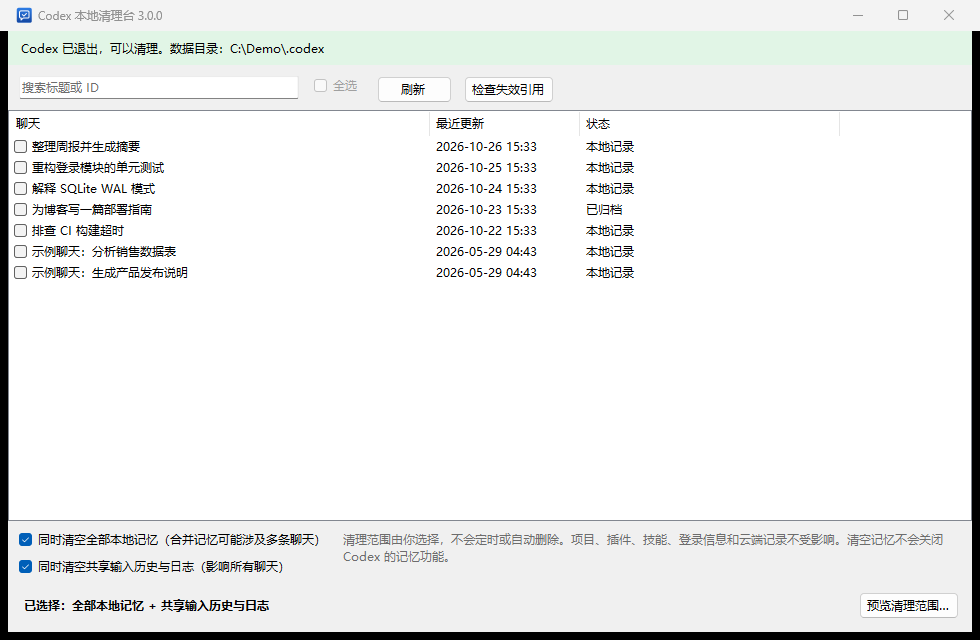
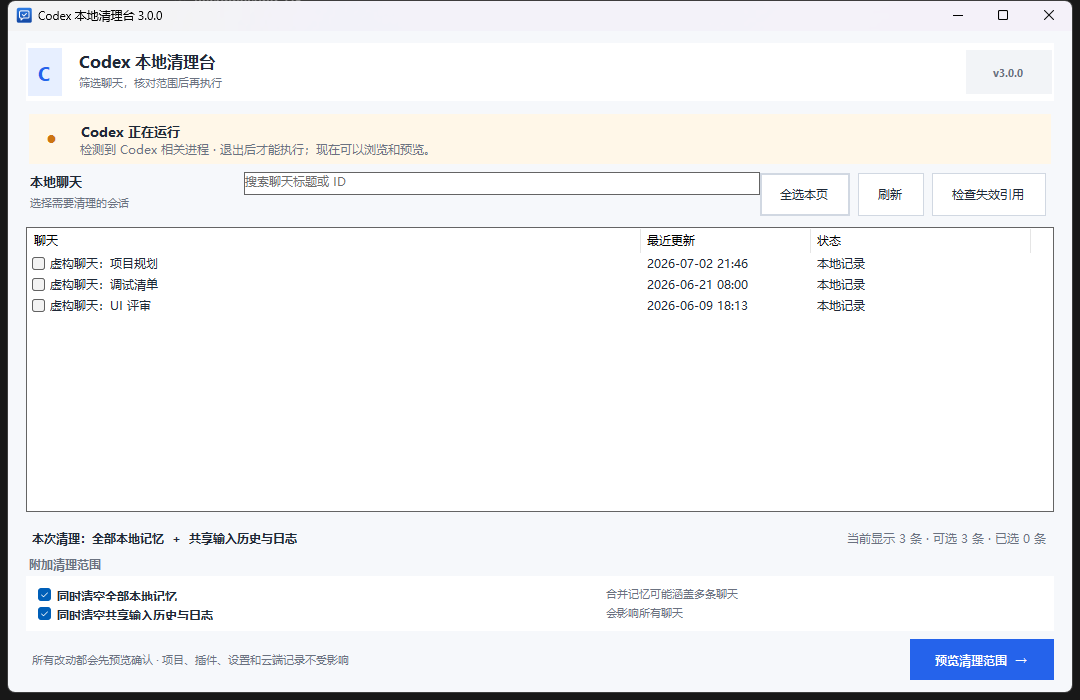
refine: tighten desktop layout

diff --git a/src/CodexCleaner/MainForm.cs b/src/CodexCleaner/MainForm.cs
@@ -40,8 +40,8 @@ internal sealed class MainForm : Form
         var version = Assembly.GetExecutingAssembly().GetName().Version!;
         Text = $"Codex 本地清理台 {version.Major}.{version.Minor}.{version.Build}";
         Icon = Icon.ExtractAssociatedIcon(Environment.ProcessPath!);
-        MinimumSize = new Size(820, 560);
-        Size = new Size(1080, 760);
+        MinimumSize = new Size(820, 520);
+        Size = new Size(1080, 700);
         BackColor = Canvas;
         ForeColor = Ink;
         Font = new Font("Microsoft YaHei UI", 9f);
@@ -62,15 +62,15 @@ internal sealed class MainForm : Form
             Dock = DockStyle.Fill,
             ColumnCount = 1,
             RowCount = 5,
-            Padding = new Padding(18, 14, 18, 14),
+            Padding = new Padding(18, 12, 18, 12),
             BackColor = Canvas,
         };
         root.ColumnStyles.Add(new ColumnStyle(SizeType.Percent, 100));
+        root.RowStyles.Add(new RowStyle(SizeType.Absolute, 58));
         root.RowStyles.Add(new RowStyle(SizeType.AutoSize));
-        root.RowStyles.Add(new RowStyle(SizeType.Absolute, 66));
         root.RowStyles.Add(new RowStyle(SizeType.Absolute, 58));
         root.RowStyles.Add(new RowStyle(SizeType.Percent, 100));
-        root.RowStyles.Add(new RowStyle(SizeType.Absolute, 178));
+        root.RowStyles.Add(new RowStyle(SizeType.Absolute, 160));
 
         var masthead = BuildMasthead(version);
         var statusStack = new TableLayoutPanel
@@ -159,22 +159,22 @@ internal sealed class MainForm : Form
 
     private static Panel BuildMasthead(Version version)
     {
-        var header = new TableLayoutPanel { Dock = DockStyle.Fill, ColumnCount = 3, RowCount = 1, BackColor = Color.FromArgb(24, 35, 56), Padding = new Padding(14, 9, 14, 8), Margin = Padding.Empty };
-        header.ColumnStyles.Add(new ColumnStyle(SizeType.Absolute, 52));
+        var header = new TableLayoutPanel { Dock = DockStyle.Fill, ColumnCount = 3, RowCount = 1, BackColor = Surface, Padding = new Padding(2, 5, 2, 5), Margin = Padding.Empty };
+        header.ColumnStyles.Add(new ColumnStyle(SizeType.Absolute, 44));
         header.ColumnStyles.Add(new ColumnStyle(SizeType.Percent, 100));
         header.ColumnStyles.Add(new ColumnStyle(SizeType.Absolute, 86));
         header.RowStyles.Add(new RowStyle(SizeType.Percent, 100));
-        var brand = new Panel { Dock = DockStyle.Fill, BackColor = Color.FromArgb(42, 65, 101), Margin = new Padding(0, 0, 12, 0) };
-        var glyph = new Label { Dock = DockStyle.Fill, Text = "C", TextAlign = ContentAlignment.MiddleCenter, Font = new Font("Segoe UI", 17f, FontStyle.Bold), ForeColor = Color.White };
+        var brand = new Panel { Dock = DockStyle.Fill, BackColor = Color.FromArgb(231, 239, 255), Margin = new Padding(0, 0, 10, 0) };
+        var glyph = new Label { Dock = DockStyle.Fill, Text = "C", TextAlign = ContentAlignment.MiddleCenter, Font = new Font("Segoe UI", 15f, FontStyle.Bold), ForeColor = Accent };
         brand.Controls.Add(glyph);
         var text = new Panel { Dock = DockStyle.Fill, BackColor = Color.Transparent };
-        text.Controls.Add(new Label { Text = "Codex 本地清理台", AutoSize = true, Location = new Point(0, 0), Font = new Font("Microsoft YaHei UI", 13f, FontStyle.Bold), ForeColor = Color.White });
-        text.Controls.Add(new Label { Text = "筛选本机聊天 · 预览范围 · 确认后执行", AutoSize = true, Location = new Point(1, 32), Font = new Font("Microsoft YaHei UI", 8.5f), ForeColor = Color.FromArgb(183, 196, 216) });
+        text.Controls.Add(new Label { Text = "Codex 本地清理台", AutoSize = true, Location = new Point(0, 0), Font = new Font("Microsoft YaHei UI", 11.5f, FontStyle.Bold), ForeColor = Ink });
+        text.Controls.Add(new Label { Text = "筛选聊天，核对范围后再执行", AutoSize = true, Location = new Point(1, 24), Font = new Font("Microsoft YaHei UI", 8f), ForeColor = Muted });
         var badge = new Label
         {
             Text = $"v{version.Major}.{version.Minor}.{version.Build}", Dock = DockStyle.Fill, TextAlign = ContentAlignment.MiddleCenter,
-            ForeColor = Color.FromArgb(217, 226, 241), BackColor = Color.FromArgb(42, 55, 78),
-            Padding = new Padding(7, 2, 7, 2), Margin = new Padding(0, 2, 0, 2), Font = new Font("Segoe UI", 8.5f, FontStyle.Bold),
+            ForeColor = Muted, BackColor = Color.FromArgb(242, 244, 247),
+            Padding = new Padding(7, 2, 7, 2), Margin = new Padding(0, 2, 0, 2), Font = new Font("Segoe UI", 8f, FontStyle.Bold),
         };
         header.Controls.Add(brand, 0, 0);
         header.Controls.Add(text, 1, 0);
@@ -184,30 +184,35 @@ internal sealed class MainForm : Form
 
     private Control BuildToolbar()
     {
-        var toolbar = new TableLayoutPanel { Dock = DockStyle.Fill, ColumnCount = 2, RowCount = 1, BackColor = Canvas, Padding = new Padding(0, 10, 0, 5), Margin = Padding.Empty };
+        var toolbar = new TableLayoutPanel { Dock = DockStyle.Fill, ColumnCount = 3, RowCount = 1, BackColor = Canvas, Padding = new Padding(0, 5, 0, 7), Margin = Padding.Empty };
+        toolbar.ColumnStyles.Add(new ColumnStyle(SizeType.AutoSize));
         toolbar.ColumnStyles.Add(new ColumnStyle(SizeType.Percent, 100));
         toolbar.ColumnStyles.Add(new ColumnStyle(SizeType.AutoSize));
 
         var searchPanel = new Panel { Dock = DockStyle.Fill, BackColor = Canvas, Margin = Padding.Empty };
-        search.Width = 310;
-        search.Location = new Point(0, 6);
-        search.Anchor = AnchorStyles.Left | AnchorStyles.Top | AnchorStyles.Right;
+        search.Dock = DockStyle.Fill;
+        search.Margin = new Padding(0, 0, 8, 0);
         searchPanel.Controls.Add(search);
-        var actions = new FlowLayoutPanel { Dock = DockStyle.Fill, AutoSize = true, WrapContents = false, FlowDirection = FlowDirection.LeftToRight, BackColor = Canvas, Margin = Padding.Empty, Padding = new Padding(0, 5, 0, 0) };
+        var heading = new Panel { Dock = DockStyle.Fill, Width = 208, BackColor = Canvas, Margin = new Padding(0, 0, 10, 0) };
+        heading.Controls.Add(new Label { Text = "本地聊天", AutoSize = true, Location = new Point(0, 0), Font = new Font("Microsoft YaHei UI", 9.5f, FontStyle.Bold), ForeColor = Ink });
+        heading.Controls.Add(new Label { Text = "选择需要清理的会话", AutoSize = true, Location = new Point(1, 23), Font = new Font("Microsoft YaHei UI", 8f), ForeColor = Muted });
+        var actions = new FlowLayoutPanel { Dock = DockStyle.Fill, AutoSize = true, WrapContents = false, FlowDirection = FlowDirection.LeftToRight, BackColor = Canvas, Margin = Padding.Empty, Padding = new Padding(0, 1, 0, 0) };
         actions.Controls.Add(selectAll);
         actions.Controls.Add(refresh);
         actions.Controls.Add(repair);
-        toolbar.Controls.Add(searchPanel, 0, 0);
-        toolbar.Controls.Add(actions, 1, 0);
+        toolbar.Controls.Add(heading, 0, 0);
+        toolbar.Controls.Add(searchPanel, 1, 0);
+        toolbar.Controls.Add(actions, 2, 0);
         return toolbar;
     }
 
     private Control BuildBottomPanel()
     {
-        var bottom = new TableLayoutPanel { Dock = DockStyle.Fill, ColumnCount = 1, RowCount = 3, BackColor = Canvas, Padding = new Padding(0, 4, 0, 0), Margin = Padding.Empty };
-        bottom.RowStyles.Add(new RowStyle(SizeType.Absolute, 34));
+        var bottom = new TableLayoutPanel { Dock = DockStyle.Fill, ColumnCount = 1, RowCount = 4, BackColor = Canvas, Padding = new Padding(0, 4, 0, 0), Margin = Padding.Empty };
+        bottom.RowStyles.Add(new RowStyle(SizeType.Absolute, 30));
+        bottom.RowStyles.Add(new RowStyle(SizeType.Absolute, 22));
         bottom.RowStyles.Add(new RowStyle(SizeType.Percent, 100));
-        bottom.RowStyles.Add(new RowStyle(SizeType.Absolute, 48));
+        bottom.RowStyles.Add(new RowStyle(SizeType.Absolute, 42));
 
         var summaryBar = new TableLayoutPanel { Dock = DockStyle.Fill, ColumnCount = 2, RowCount = 1, BackColor = Canvas, Margin = Padding.Empty };
         summaryBar.ColumnStyles.Add(new ColumnStyle(SizeType.Percent, 100));
@@ -239,8 +244,9 @@ internal sealed class MainForm : Form
         footer.Controls.Add(preview, 1, 0);
 
         bottom.Controls.Add(summaryBar, 0, 0);
-        bottom.Controls.Add(optionsCard, 0, 1);
-        bottom.Controls.Add(footer, 0, 2);
+        bottom.Controls.Add(new Label { Text = "附加清理范围", AutoSize = true, Anchor = AnchorStyles.Left, Font = new Font("Microsoft YaHei UI", 8.5f, FontStyle.Bold), ForeColor = Muted, Margin = Padding.Empty }, 0, 1);
+        bottom.Controls.Add(optionsCard, 0, 2);
+        bottom.Controls.Add(footer, 0, 3);
         return bottom;
     }
 

diff --git a/docs/CHANGELOG.md b/docs/CHANGELOG.md
@@ -2,6 +2,7 @@
 
 ## Unreleased
 
+- 收紧主窗口的标题、运行状态和聊天工具栏布局，调整小窗口下的空间分配与操作区层级。
 - 重做主窗口与确认窗口的层级、配色、间距和操作按钮样式，加入运行状态、筛选结果统计与空列表提示。
 - 调整全选交互：全选本页无需先勾选聊天，并可再次点击取消当前筛选结果的选择。
 
